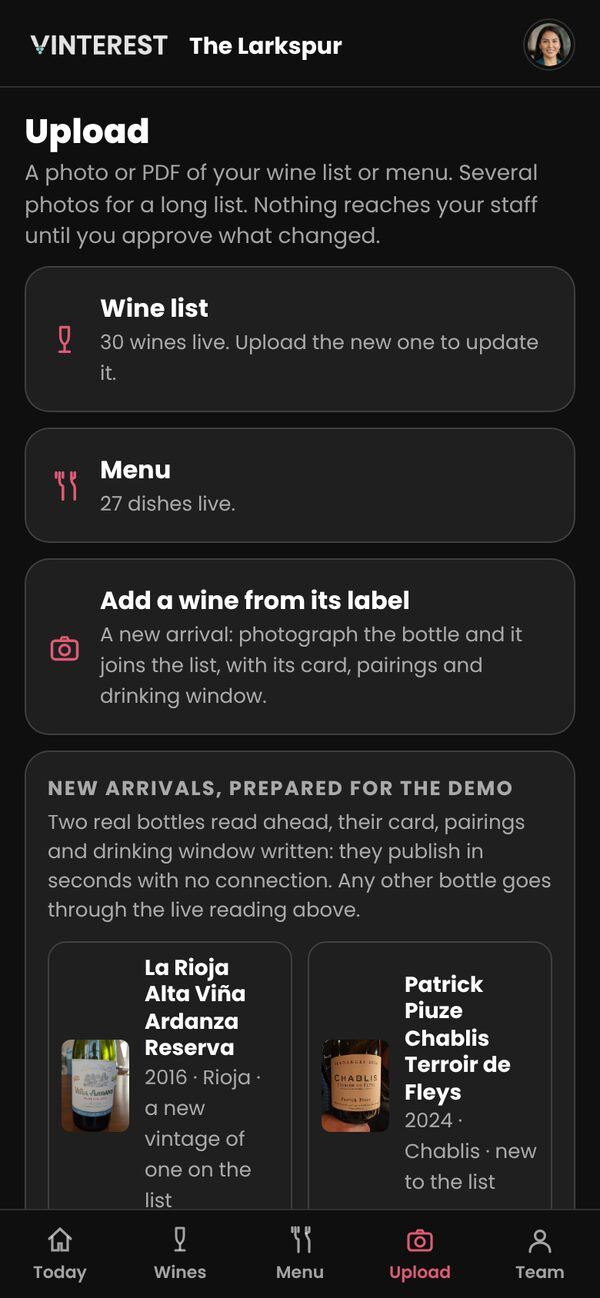
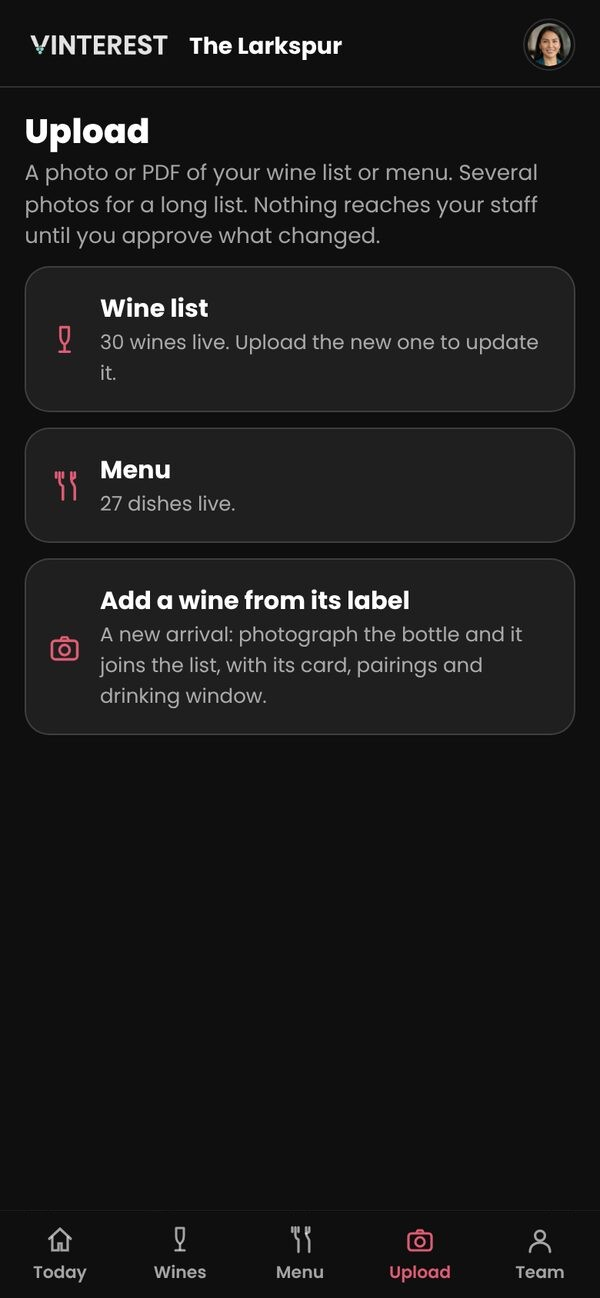
Teams: each new screen opens at its top; site fixes on phones
The staff app has one scroll area for every screen, so a wine opened from far down the list
started part-way down. A new tab, wine, dish or drill now opens at its top and Back returns to
where the list was (useScrollPlace); the console's sections and drawer start at the top too.

Website: the console demo's tabs no longer squash on a phone, and the playing tab stays in view;
the upload screenshot no longer shows the demo's prepared bottles; the manager section is the
dashboard scrolling in a window instead of a cropped picture.

Claude-Session: https://claude.ai/code/session_015nNkSEFdLmW5jGpkcb29cj

diff --git a/team-app.jsx b/team-app.jsx
@@ -28,6 +28,9 @@ function TeamApp(){
   const open=v=>{ if(v.tab){ setTab(v.tab); setStack([]); return; } setStack(s=>[...s,v]); };
   const consoleOn=set&&manager&&(forceConsole||size!=='phone')&&!phoneView;
   const toPhone=v=>{ setPhoneView(true); setStack([]); if(v&&v.pid&&TeamLearn.person(v.pid)) TeamLearn.setMe(v.pid); if(v&&v.tab) setTab(v.tab); else setTab('today'); if(v&&v.view==='drill') setStack([{view:'drill',only:v.only,part:v.part}]); refresh(); };
+  // One scroll area holds every screen, so a new screen (another tab, a wine, a drill) opens at its top;
+  // Back returns to where the screen below was left.
+  const place=tab+'/'+stack.map(v=>v.view+':'+(v.id||'')).join('/'), scroller=useScrollPlace(place);
   if(consoleOn) return <DeckTheme.Provider value={_DECK_DARK}><div data-gen={gen} style={{position:'absolute',inset:0,color:T.ink}}><ScreenErrorBoundary><TeamConsole me={me} onPhone={toPhone} refresh={refresh} section={section} setSection={setSection}/></ScreenErrorBoundary></div></DeckTheme.Provider>;
   const back=()=>setStack(s=>s.slice(0,-1));
   const top=stack[stack.length-1];
@@ -54,7 +57,7 @@ function TeamApp(){
         {TeamLearn.people().map(p=><div key={p.id} role="button" onClick={()=>{ TeamLearn.setMe(p.id); setSwitching(false); setStack([]); if(!['manager','buyer'].includes(p.role)&&['upload','team'].includes(tab)) setTab('today'); refresh(); }} style={{display:'flex',alignItems:'center',gap:6,padding:'4px 10px 4px 4px',borderRadius:16,border:`1px solid ${p.id===me.id?cr:T.line}`,fontSize:13,fontFamily:C.P,color:T.ink,cursor:'pointer'}}><TeamFace person={p} size={24}/>{p.name.split(' ')[0]} · {TeamLearn.ROLES[p.role].label}</div>)}
         <div role="button" onClick={()=>{ if(confirm('Start again? This clears the restaurant and everyone\'s training on this device.')){ TeamData.reset(); Store.remove(TeamLearn.KEY); TeamLearn.resetProgress(); setSwitching(false); setStack([]); setTab('today'); refresh(); } }} style={{padding:'6px 10px',fontSize:13,fontFamily:C.P,color:T.mid,cursor:'pointer'}}>Start again</div>
       </div>}
-      <div style={{flex:1,overflowY:'auto',padding:'16px 16px 24px'}}><div style={{maxWidth:720,margin:'0 auto'}}>{set&&<TeamJobChip onOpen={()=>{ if(manager){ setTab('upload'); setStack([]); } }}/>}<ScreenErrorBoundary>{body}</ScreenErrorBoundary></div></div>
+      <div ref={scroller} data-testid="team-scroll" style={{flex:1,overflowY:'auto',padding:'16px 16px 24px'}}><div style={{maxWidth:720,margin:'0 auto'}}>{set&&<TeamJobChip onOpen={()=>{ if(manager){ setTab('upload'); setStack([]); } }}/>}<ScreenErrorBoundary>{body}</ScreenErrorBoundary></div></div>
       {set&&!top&&<div style={{display:'flex',borderTop:`1px solid ${T.line}`,background:T.bg,paddingBottom:'env(safe-area-inset-bottom)'}}>
         {tabs.map(t=><div key={t.k} role="button" data-testid={'team-tab-'+t.k} onClick={()=>{ setTab(t.k); setStack([]); }} style={{flex:1,display:'flex',flexDirection:'column',alignItems:'center',gap:3,padding:'9px 0 8px',cursor:'pointer'}}>
           {t.k==='vinny'?<div style={{width:20,height:20,borderRadius:10,background:tab===t.k?cr:T.mid,display:'flex',alignItems:'center',justifyContent:'center'}}><span style={{fontSize:'11px',fontWeight:800,color:T.bg,fontFamily:C.P,lineHeight:1}}>V</span></div>:<Icon n={t.icon} sz={20} col={tab===t.k?cr:T.mid}/>}<span style={{fontSize:'11px',fontWeight:600,fontFamily:C.P,color:tab===t.k?cr:T.mid}}>{t.label}</span></div>)}

diff --git a/site/teams/index.html b/site/teams/index.html
@@ -168,7 +168,7 @@
         <div><span>New on the list, still unknown to most</span><b>3 wines</b></div>
       </div>
     </div>
-    <div><div class="shot"><img src="img/crop-readiness2.jpg" alt="Readiness by person"></div></div>
+    <div><div class="mwin"><div class="mbar"><i></i><i></i><i></i><span>Dashboard · The Larkspur</span></div><div class="stage mstage" id="mstage" role="img" aria-label="The console's dashboard scrolling: readiness by person, what needs attention, what to learn first, and what's new on the list"></div></div></div>
   </div>
 </section>
 
@@ -272,6 +272,7 @@ const order = tabs.map((t) => t.dataset.scene), lap = player(stage, SW, SH, 'img
 let cur = 'ready', held = reduced, inView = false, playing = false;
 async function play(name) {
   cur = name; playing = true; const sc = SCENES[name];
+  { const sel = tabs.find((t) => t.dataset.scene === name), box = sel.parentElement; if (box.scrollWidth > box.clientWidth) box.scrollTo({ left: sel.offsetLeft - (box.clientWidth - sel.offsetWidth) / 2, behavior: reduced ? 'auto' : 'smooth' }); }
   tabs.forEach((t) => { t.setAttribute('aria-selected', t.dataset.scene === name ? 'true' : 'false'); const bar = t.querySelector('i'); bar.style.animation = 'none'; void bar.offsetWidth; bar.style.animation = ''; if (t.dataset.scene === name) t.style.setProperty('--dwell', (lap.length(sc.steps) + 600) + 'ms'); });
   cap.innerHTML = sc.cap;
   const finished = await lap.play(sc.steps); if (!finished) return;
@@ -346,6 +347,18 @@ fgo(0); new IntersectionObserver((es) => es.forEach((e) => { if (e.isIntersectin
   items.forEach((it, i) => it.addEventListener('click', () => { held = true; box.classList.add('held'); pick(i); }));
   new IntersectionObserver((es) => es.forEach((e) => { if (e.isIntersecting && !seen) { seen = true; pick(0, true); } else if (!e.isIntersecting) clear(); else if (e.isIntersecting && seen && !held) pick(cur, true); }), { threshold: .4 }).observe(document.getElementById('vinny'));
   show('ask');
+})();
+
+// The manager's dashboard: readiness, what needs attention, learn first and new on the list, scrolled
+// through while the section is on screen, then back to the top.
+(function () {
+  const el = document.getElementById('mstage'), MW = 584, MH = 720;
+  const mp = player(el, MW, MH, 'img/scenes/', 'wheel');
+  const steps = [{ pan: { img: 'mgr', x: 0, w: MW, h: 2432, from: 0, to: 0, ms: 1800 } }, { pan: { img: 'mgr', x: 0, w: MW, h: 2432, from: 0, to: 1, ms: 15000 }, keep: true }, { pan: { img: 'mgr', x: 0, w: MW, h: 2432, from: 1, to: 1, ms: 2200 }, keep: true }];
+  let on = false;
+  async function loop() { while (on) { const ok = await mp.play(steps); if (!ok || reduced) return; } }
+  if (reduced) { mp.play([steps[0]]); return; }
+  new IntersectionObserver((es) => { const vis = es[0].isIntersecting; if (vis && !on) { on = true; loop(); } else if (!vis && on) { on = false; mp.stop(); } }, { threshold: .35 }).observe(el);
 })();
 
 // The guess slider shows itself moving once, so it reads as something to try.

diff --git a/team-console.jsx b/team-console.jsx
@@ -94,7 +94,7 @@ function TeamConsole({me,onPhone,refresh,section,setSection,open}){ const T=useT
     :section==='upload'?<_CUpload refresh={refresh}/>:section==='pos'?<_CPos open={go}/>:section==='admin'?<_CAdmin refresh={refresh}/>:<_CDash open={go} setSection={setSection}/>;
   return <div data-testid="team-console" style={{position:'absolute',inset:0,display:'flex',flexDirection:narrow?'column':'row',background:`radial-gradient(ellipse at 20% -10%, ${_alpha(cr,0.25)}, transparent 55%) ${T.bg}`,color:T.ink}}>
     {side}
-    <div style={{flex:1,minWidth:0,overflowY:'auto',padding:narrow?'14px 14px 40px':'22px 28px 60px'}}><div style={{maxWidth:1100,margin:'0 auto'}}><TeamJobChip onOpen={()=>setSection('upload')}/><ScreenErrorBoundary>{page}</ScreenErrorBoundary></div></div>
+    <div key={section} data-testid="console-scroll" style={{flex:1,minWidth:0,overflowY:'auto',padding:narrow?'14px 14px 40px':'22px 28px 60px'}}><div style={{maxWidth:1100,margin:'0 auto'}}><TeamJobChip onOpen={()=>setSection('upload')}/><ScreenErrorBoundary>{page}</ScreenErrorBoundary></div></div>
     {panel&&<_CPanel panel={panel} me={me} open={go} close={()=>setPanel(null)} narrow={narrow}/>}
   </div>; }
 /* The logo with TEAMS set under it as one mark. logo.png has clear padding round the drawing (the mark
@@ -116,7 +116,7 @@ function _CPanel({panel,me,open,close,narrow}){ const T=useTheme();
   const body=panel.view==='wine'?<TeamWine id={panel.id} pid={me.id} open={open} manage/>:panel.view==='dish'?<TeamDish id={panel.id} open={open}/>:panel.view==='person'?<_CPerson id={panel.id} open={open}/>:null;
   // A wider drawer over a dimmed page: the content behind it isn't meant to be read while it's open, and a tap on the dim closes it.
   return <><div data-testid="console-scrim" onClick={close} style={{position:'absolute',inset:0,background:'rgba(0,0,0,0.45)'}}/>
-  <div data-testid="console-panel" style={{position:'absolute',top:0,right:0,bottom:0,width:narrow?'100%':'min(600px, 72%)',background:T.card,borderLeft:`1px solid ${T.line}`,boxShadow:T.shadow,overflowY:'auto',padding:'16px 22px 40px'}}>
+  <div key={panel.view+':'+panel.id} data-testid="console-panel" style={{position:'absolute',top:0,right:0,bottom:0,width:narrow?'100%':'min(600px, 72%)',background:T.card,borderLeft:`1px solid ${T.line}`,boxShadow:T.shadow,overflowY:'auto',padding:'16px 22px 40px'}}>
     <div style={{display:'flex',justifyContent:'flex-end',marginBottom:6}}><div role="button" aria-label="Close" data-testid="console-panel-close" onClick={close} style={{width:32,height:32,borderRadius:16,border:`1px solid ${T.line}`,display:'flex',alignItems:'center',justifyContent:'center',cursor:'pointer',color:T.ink,fontFamily:C.P,fontSize:16}}>×</div></div>
     {body}
   </div></>; }

diff --git a/site/teams/site.css b/site/teams/site.css
@@ -81,9 +81,9 @@ h3 { font-size: 19px; letter-spacing: -.01em; line-height: 1.3; }
 .hero .cta { display: flex; flex-wrap: wrap; gap: 10px; margin-top: 28px; align-items: center; }
 .hero .cta .fine { font-size: 13px; color: var(--mute); margin-left: 6px; }
 .hero .demo { margin-top: 56px; }
-.tabs { display: flex; gap: 4px; padding: 4px; border-radius: 12px; background: #fff; border: 1px solid var(--line); width: max-content; max-width: 100%; overflow-x: auto; scrollbar-width: none; margin: 0 auto 18px; box-shadow: 0 1px 2px rgba(0,0,0,.04); }
+.tabs { position: relative; display: flex; gap: 4px; padding: 4px; border-radius: 12px; background: #fff; border: 1px solid var(--line); width: max-content; max-width: 100%; overflow-x: auto; scrollbar-width: none; margin: 0 auto 18px; box-shadow: 0 1px 2px rgba(0,0,0,.04); }
 .tabs::-webkit-scrollbar { display: none; }
-.tabs button { padding: 7px 14px; border-radius: 9px; font-size: 14px; font-weight: 600; color: var(--ink-2); background: none; border: 0; cursor: pointer; white-space: nowrap; position: relative; overflow: hidden; }
+.tabs button { flex: none; padding: 7px 14px; border-radius: 9px; font-size: 14px; font-weight: 600; color: var(--ink-2); background: none; border: 0; cursor: pointer; white-space: nowrap; position: relative; overflow: hidden; }
 .tabs button[aria-selected="true"] { background: var(--ink); color: #fff; }
 .tabs button i { position: absolute; left: 0; bottom: 0; height: 2px; width: 100%; background: var(--neon); transform: scaleX(0); transform-origin: 0 50%; }
 .tabs button[aria-selected="true"] i { animation: fill var(--dwell, 8s) linear forwards; }
@@ -227,6 +227,11 @@ h3 { font-size: 19px; letter-spacing: -.01em; line-height: 1.3; }
 .mgr .stats div { display: flex; justify-content: space-between; align-items: center; gap: 12px; padding: 12px 0; border-bottom: 1px solid var(--dline); font-size: 15px; color: var(--dim); }
 .mgr .stats div b { color: #fff; font-weight: 600; }
 .mgr .shot { border-radius: 14px; overflow: hidden; border: 1px solid var(--dline); box-shadow: 0 40px 80px -30px rgba(0,0,0,.8); }
+.mwin { border-radius: 14px; overflow: hidden; border: 1px solid var(--dline); background: #0f0f0f; box-shadow: 0 40px 80px -30px rgba(0,0,0,.8), 0 0 0 1px rgba(255,255,255,.03); max-width: 520px; margin: 0 auto; }
+.mbar { display: flex; align-items: center; gap: 6px; height: 34px; padding: 0 14px; background: #1a1a1a; border-bottom: 1px solid var(--dline); }
+.mbar i { width: 10px; height: 10px; border-radius: 50%; background: #3a3a3a; }
+.mbar span { margin-left: 10px; font-size: 12px; color: var(--dim); }
+.mstage { position: relative; aspect-ratio: 584 / 720; overflow: hidden; }
 
 /* Rooms */
 .rooms { padding: 96px 0; }

diff --git a/tests/team.spec.js b/tests/team.spec.js
@@ -570,3 +570,26 @@ test('a guest at the table: Vinny opens, the server answers, and the table is ma
   expect(reqs.filter((r) => r.purpose === 'team_guest')[1].messages[0].content).toContain('SERVER: The Grüner by the glass');
   expect(errors).toEqual([]);
 });
+
+// One scroll area holds every screen: a wine opened from far down the list starts at its top, Back
+// returns to the place in the list, and another tab opens at its top too.
+test('a new screen opens at its top, and Back returns to where the list was', async ({ context, page }) => {
+  await page.setViewportSize({ width: 390, height: 844 });
+  await stubNetwork(context);
+  await page.goto(`${BASE}/team/?seed=demo`);
+  await expect(page.getByTestId('team-state')).toBeVisible();
+  await page.getByTestId('team-tab-wines').click();
+  const scroller = page.getByTestId('team-scroll');
+  await scroller.evaluate((el) => { el.scrollTop = 900; });
+  const listAt = await scroller.evaluate((el) => el.scrollTop);
+  expect(listAt).toBeGreaterThan(500);
+  await page.getByTestId('team-wine-row').nth(12).click();
+  await expect(page.getByTestId('team-wine')).toBeVisible();
+  expect(await scroller.evaluate((el) => el.scrollTop)).toBe(0);
+  await scroller.evaluate((el) => { el.scrollTop = 400; });
+  await page.getByRole('button', { name: 'Back' }).click();
+  await expect(page.getByTestId('team-wine')).toBeHidden();
+  expect(await scroller.evaluate((el) => el.scrollTop)).toBe(listAt);
+  await page.getByTestId('team-tab-menu').click();
+  expect(await scroller.evaluate((el) => el.scrollTop)).toBe(0);
+});

diff --git a/team-screens.jsx b/team-screens.jsx
@@ -407,3 +407,19 @@ function TeamPeople({open,onChanged}){ const T=useTheme(), cr=T.lift(C.cr);
   </div>; }
 
 Object.assign(window,{TeamFace,TeamRing,TeamSetup,TeamToday,TeamDrill,TeamWines,TeamWine,TeamMenu,TeamDish,TeamUpload,TeamPeople,TeamJobChip,TeamKpiStrip,useTeamJob});
+
+/* Where a scroll area stands for each screen it shows (`place`, a path such as "wines/wine:w3"): a new
+   place opens at the top; going back to a place that leads to this one (a prefix of it) returns to
+   where it was left, and forgets the deeper ones, so a wine opened again later starts at its top. */
+function useScrollPlace(place){
+  const el=React.useRef(null), saved=React.useRef({}), cur=React.useRef(place);
+  const on=React.useRef(()=>{ if(el.current) saved.current[cur.current]=el.current.scrollTop; });
+  // A callback ref, since the scroll area can mount after the first render (the console shows first on a laptop).
+  const ref=React.useCallback(node=>{ if(el.current) el.current.removeEventListener('scroll',on.current); el.current=node; if(node) node.addEventListener('scroll',on.current,{passive:true}); },[]);
+  React.useLayoutEffect(()=>{ const was=cur.current; if(was===place) return; cur.current=place; if(!el.current) return;
+    const back=was.startsWith(place+'/')||(was.startsWith(place)&&place.endsWith('/'));
+    Object.keys(saved.current).forEach(k=>{ if(k!==place&&k.startsWith(place)) delete saved.current[k]; });
+    el.current.scrollTop=back?(saved.current[place]||0):0; },[place]);
+  return ref;
+}
+
